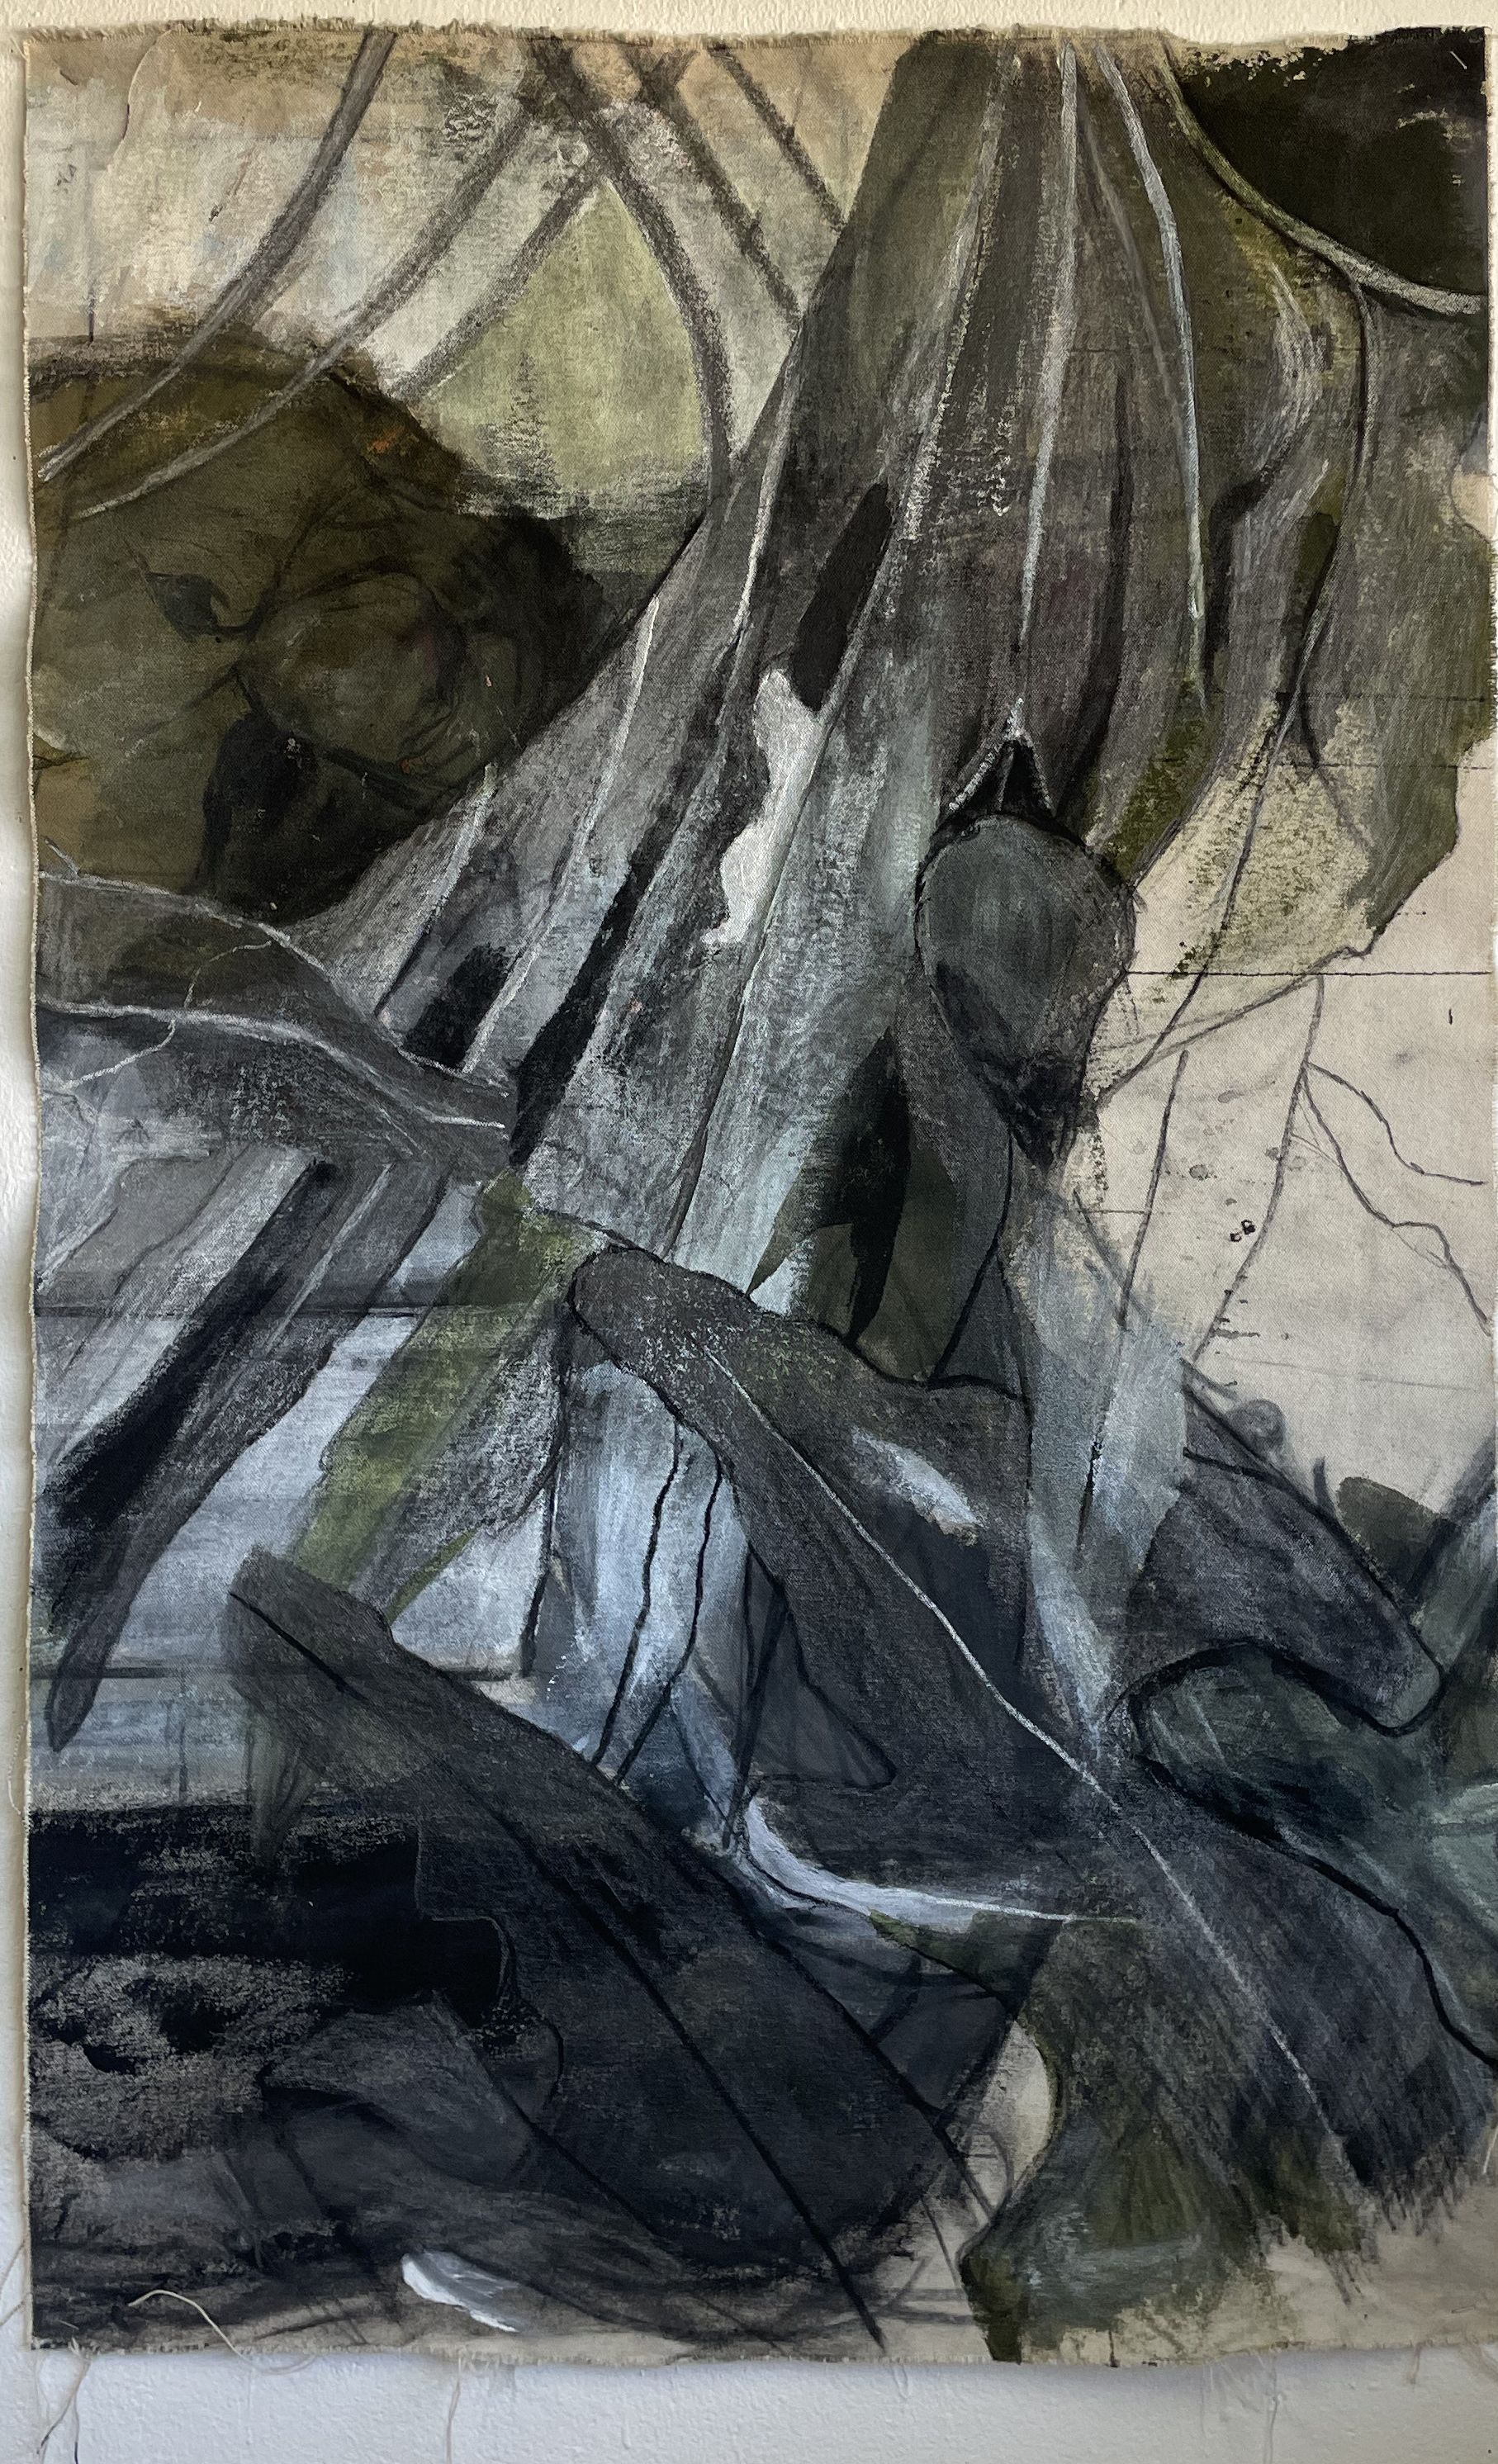
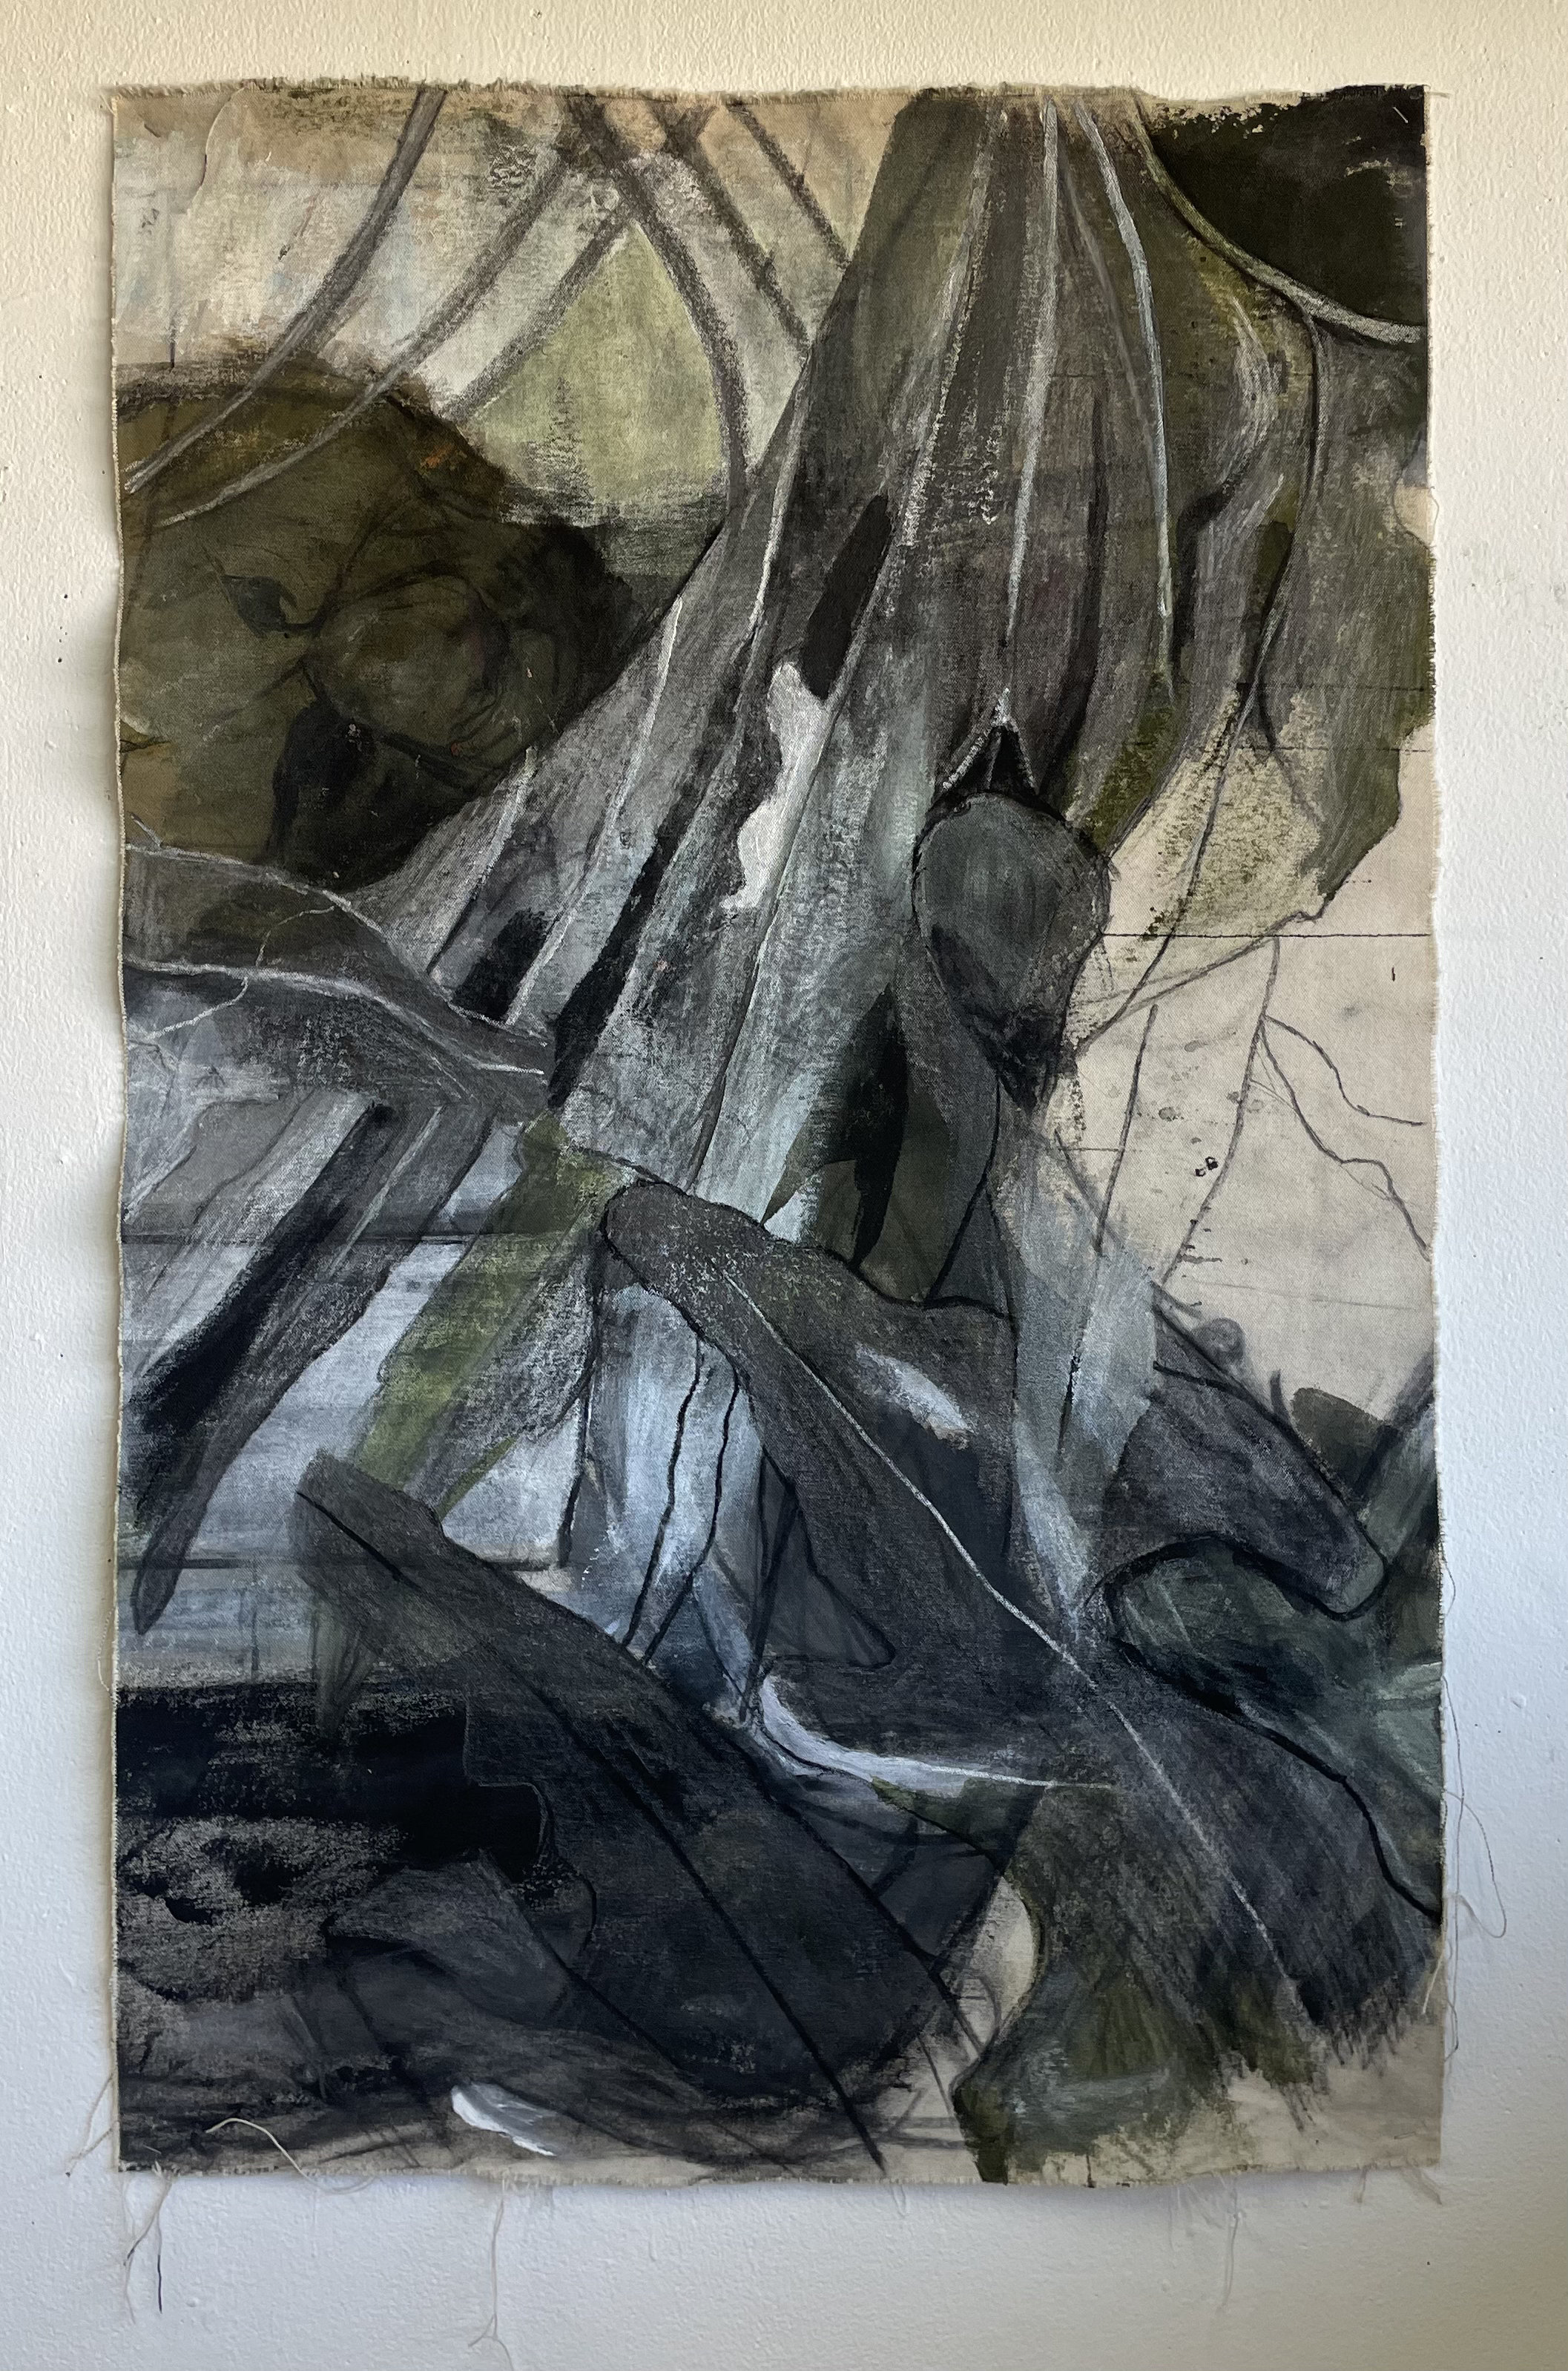
Use original uncropped photos for Maya and Untitled 96x61cm, update about text

diff --git a/index.html b/index.html
@@ -23,7 +23,7 @@
 
     <section id="about" class="about">
       <h2>About</h2>
-      <p>I paint to process the weight of being alive. My work moves between the figurative and the abstract, built from photographs that I rework through charcoal, acrylic, oil, and graphite on large-scale canvas. I draw on techniques from the world of textile - dyeing and washing the canvas before and after painting - alongside more traditional mixed-media approaches. I'm drawn to charged, quiet states - moments that hold tension beneath a still surface. I don't set out to soften what's difficult; I try to give it a form that can be looked at.</p>
+      <p>My work moves between the figurative and the abstract, built from photographs that I rework through charcoal, acrylic, oil, and graphite on large-scale canvas. I draw on techniques from the world of textile - dyeing and washing the canvas before and after painting. I'm drawn to charged, quiet states - moments that hold tension beneath a still surface. I don't set out to soften what's difficult; I try to give it a form that can be looked at.</p>
       <p>I trained at Bezalel Academy of Art and Design and hold a master's degree in integrated design from HIT. I currently work from a shared studio in Tel Aviv, where I'm developing a growing, coherent body of work.</p>
     </section>
 